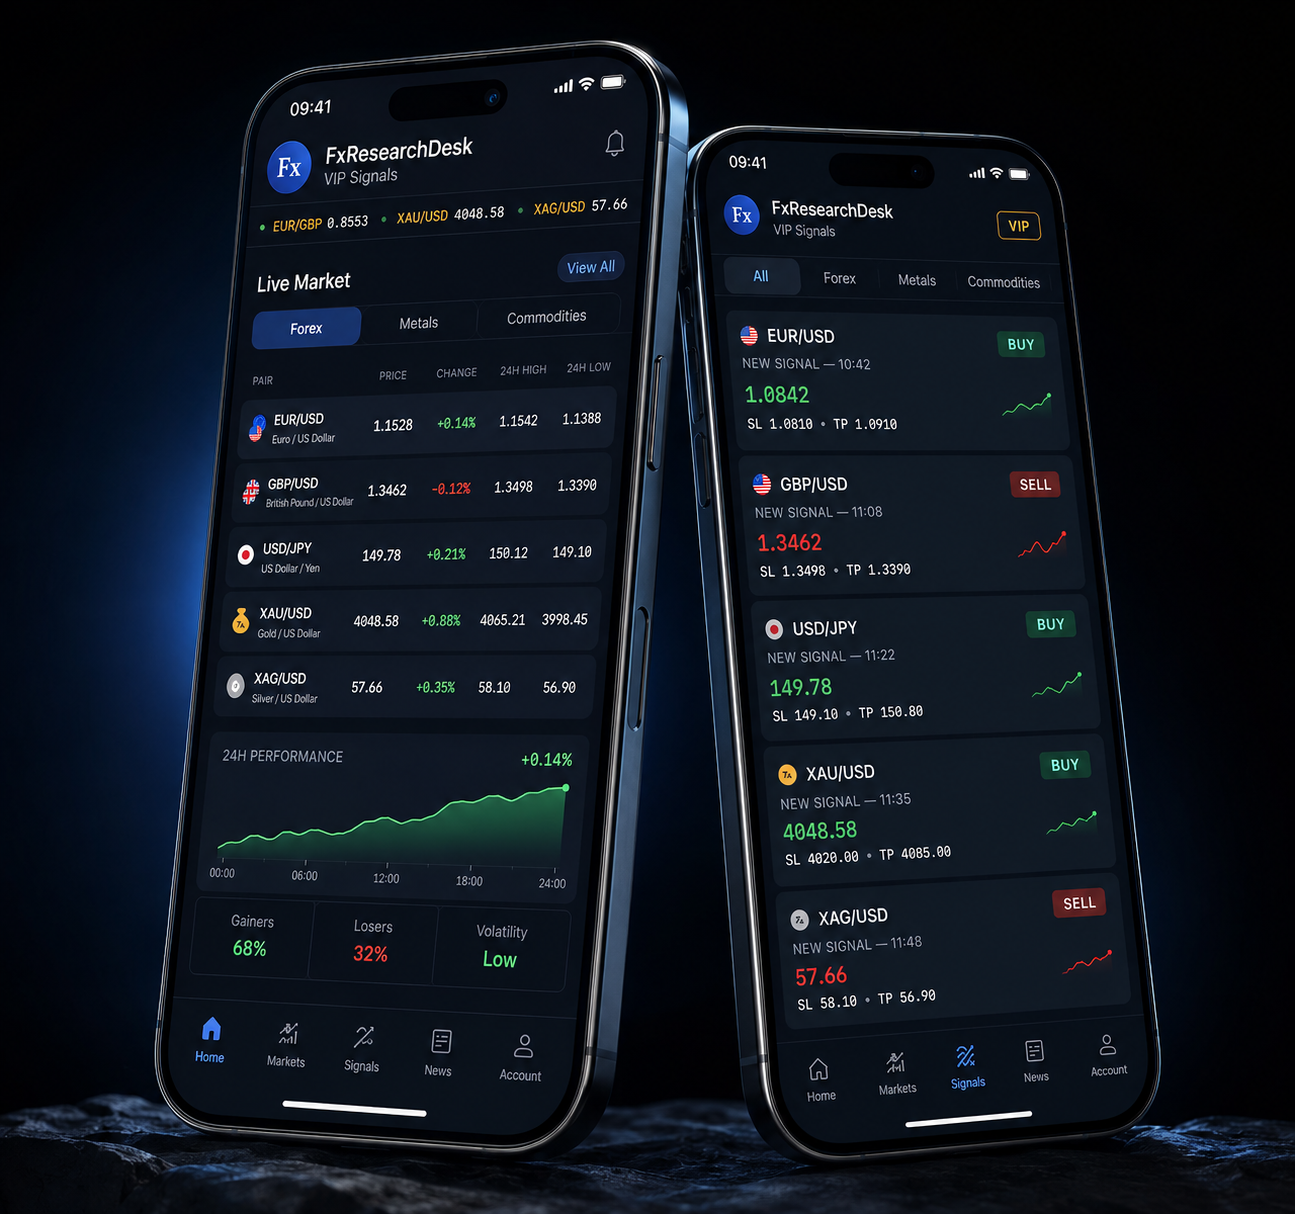
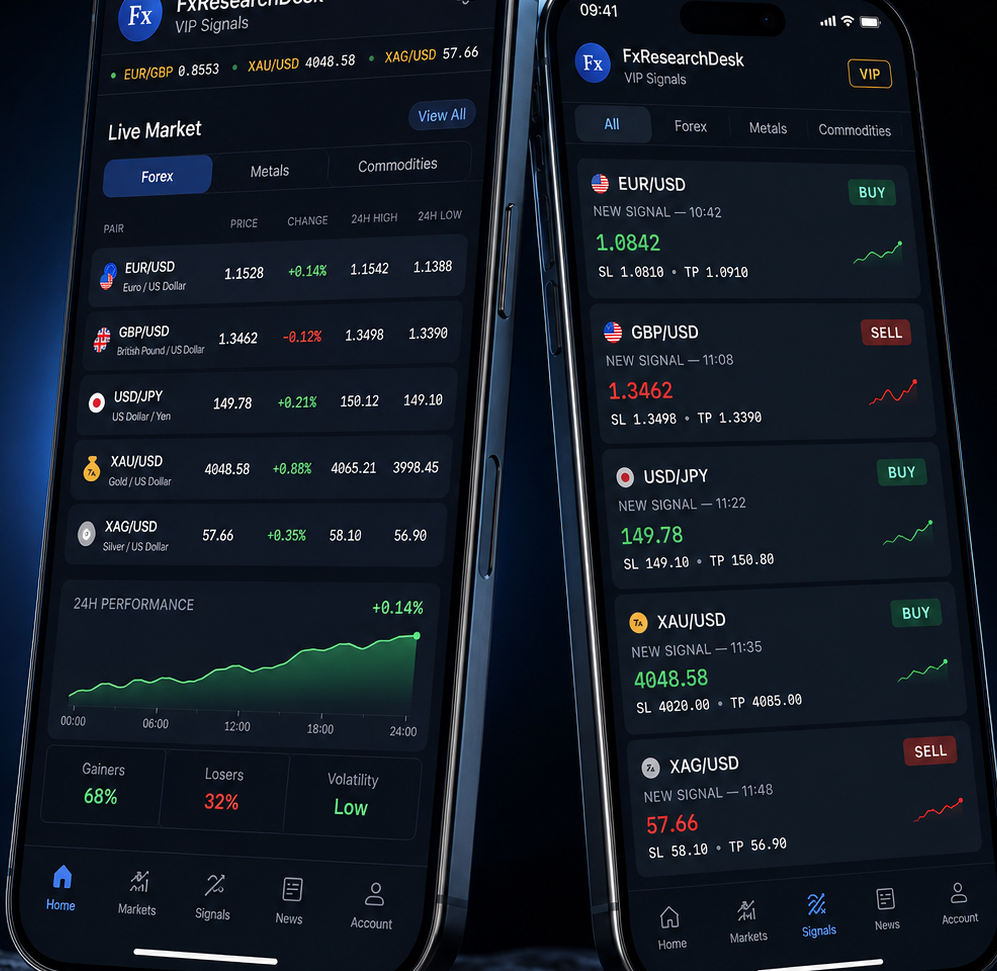
Crop hero phone image to remove excess canvas margin

diff --git a/src/components/home/hero-phones-image.css b/src/components/home/hero-phones-image.css
@@ -1,10 +1,9 @@
-/* Static photorealistic hero phones — entrance + gentle float */
+/* Static photorealistic hero phones — cropped canvas + float */
 
 .hero-phones-image {
   width: 100%;
   max-width: min(100%, 560px);
   margin-inline: auto;
-  padding-block: 8px;
   opacity: 0;
   transform: translateY(24px);
   transition:
@@ -15,8 +14,6 @@
 @media (min-width: 1024px) {
   .hero-phones-image {
     max-width: none;
-    padding-block: 12px;
-    padding-inline: 4px;
   }
 }
 
@@ -34,6 +31,22 @@
 
 .hero-phones-image__float {
   will-change: transform;
+}
+
+/* Matches cropped asset (997×971) */
+.hero-phones-image__crop {
+  position: relative;
+  width: 100%;
+  aspect-ratio: 997 / 971;
+  overflow: hidden;
+  background: transparent;
+}
+
+.hero-phones-image__img {
+  object-fit: cover;
+  object-position: center 48%;
+  transform: scale(1.05);
+  transform-origin: center 48%;
 }
 
 .hero-phones-image.is-visible:not(.reduce-motion) .hero-phones-image__float {

diff --git a/src/components/home/hero-phones-image.tsx b/src/components/home/hero-phones-image.tsx
@@ -50,15 +50,16 @@ export function HeroPhonesImage() {
       )}
     >
       <div className="hero-phones-image__float">
-        <Image
-          src="/hero/phones-mockup.png"
-          alt="Illustrative FX Research Desk signal phones"
-          width={1295}
-          height={1214}
-          priority
-          sizes="(max-width: 640px) 92vw, (max-width: 1024px) 70vw, 48vw"
-          className="h-auto w-full"
-        />
+        <div className="hero-phones-image__crop">
+          <Image
+            src="/hero/phones-mockup.png"
+            alt="Illustrative FX Research Desk signal phones"
+            fill
+            priority
+            sizes="(max-width: 640px) 92vw, (max-width: 1024px) 70vw, 48vw"
+            className="hero-phones-image__img"
+          />
+        </div>
       </div>
     </div>
   );
